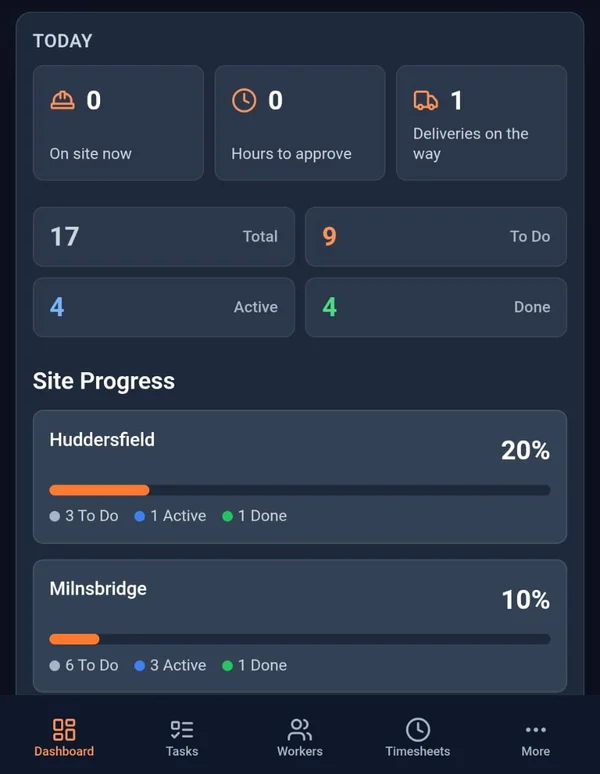
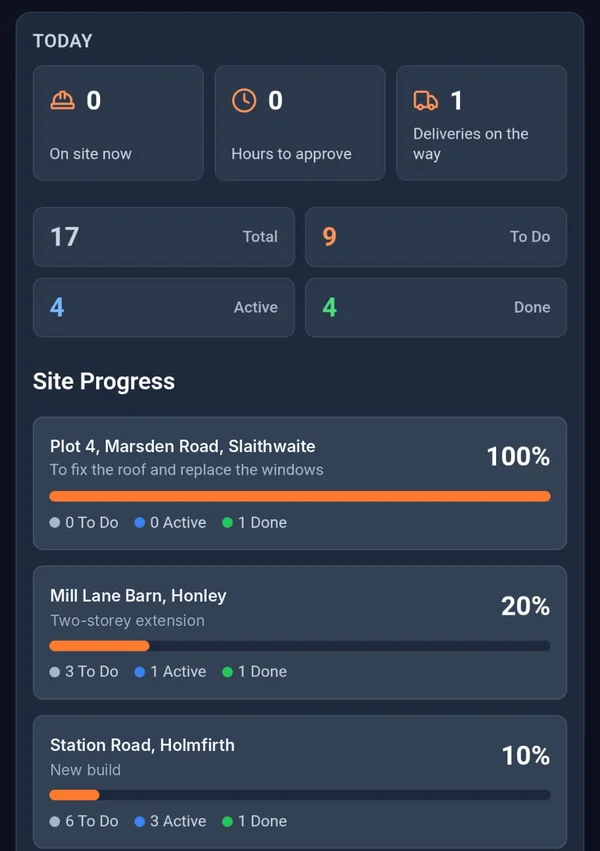
pricing and appearance & motion

diff --git a/public/assets/site.css b/public/assets/site.css
@@ -109,7 +109,7 @@
     pointer-events:none; z-index:0;
   }
   .hero .wrap{position:relative; z-index:1;}
-  .hero-grid{display:grid; grid-template-columns:1.1fr 0.9fr; gap:52px; align-items:center;}
+  .hero-grid{display:grid; grid-template-columns:1.1fr 0.9fr; gap:40px; align-items:center;}
   @media (max-width:900px){ .hero-grid{grid-template-columns:1fr; gap:40px;} }
   .hero h1{font-size:clamp(38px,6.2vw,70px); line-height:1.0; font-weight:800;}
   .hero h1 span{color:var(--accent);}
@@ -373,26 +373,42 @@ button.linklike{background:none; border:0; padding:0; font:inherit; cursor:point
 
 /* ---------- hero: real app screenshots ---------- */
 .shots{position:relative; padding-bottom:10px;}
-.shots .shot-desk{
-  margin:0; position:relative; z-index:1; width:100%;
-  background:var(--surface); border:1px solid var(--line-strong); border-radius:8px;
-  box-shadow:var(--shadow); overflow:hidden; transform:rotate(-1.2deg);
-}
-.shot-bar{display:flex; align-items:center; gap:6px; padding:8px 12px; background:var(--surface-2); border-bottom:1px solid var(--line);}
-.shot-url{margin-left:10px; font-family:'IBM Plex Mono', monospace; font-size:11px; color:var(--muted);}
-.shot-desk img{display:block; width:100%; height:auto;}
+/* Laptop: lid with thin bezel and camera, 16:10-ish display, then the keyboard deck. */
+.shots .shot-desk{margin:0 0 0 1%; position:relative; z-index:1; width:94%; filter:drop-shadow(0 30px 40px rgba(0,0,0,.45));}
+.laptop-lid{position:relative; background:#0a0d17; border:1px solid #2c3452; border-bottom:none; border-radius:14px 14px 0 0; padding:12px 12px 14px;}
+.laptop-cam{position:absolute; top:4px; left:50%; width:5px; height:5px; margin-left:-2.5px; border-radius:50%; background:#2a3150;}
+.laptop-display{background:#0d101f; border-radius:3px; overflow:hidden; aspect-ratio:16/10; display:flex; flex-direction:column;}
+.shot-bar{display:flex; align-items:center; gap:5px; padding:6px 10px; background:#1a2036; border-bottom:1px solid var(--line); flex:none;}
+.shot-bar .dot{width:7px; height:7px;}
+.shot-url{margin-left:8px; font-family:'IBM Plex Mono', monospace; font-size:10px; color:var(--muted); background:#0d101f; border-radius:4px; padding:2px 10px;}
+.laptop-apphead{display:flex; align-items:center; justify-content:space-between; padding:7px 12px; border-bottom:1px solid var(--line); flex:none;}
+.laptop-apphead img{height:12px; width:auto; display:block;}
+.laptop-apphead .phone-icons svg{width:12px; height:12px;}
+.laptop-shot{display:block; width:100%; height:auto; flex:1; object-fit:cover; object-position:top; min-height:0;}
+.laptop-base{position:relative; height:13px; margin:0 -7%; background:linear-gradient(#3a4263, #1c2236 60%, #121627); border-radius:0 0 12px 12px; border:1px solid #2c3452; border-top:1px solid #4a5378;}
+.laptop-base span{position:absolute; top:0; left:50%; width:16%; height:5px; margin-left:-8%; background:#141a2c; border-radius:0 0 6px 6px;}
 .shots .shot-phone{
-  position:relative; z-index:2; width:230px; margin:-70px 4% 0 auto;
-  background:#0d1120; border:8px solid #1b2138; border-radius:30px;
-  box-shadow:var(--shadow); overflow:hidden;
+  position:relative; z-index:2; width:182px; margin:-215px -3% 0 auto; border-width:6px; border-radius:30px;
+  background:#0d101f; border:7px solid #161b2e; border-radius:38px; overflow:hidden;
+  box-shadow:0 0 0 1.5px #2c3452, 0 30px 70px rgba(0,0,0,.55);
 }
-.shot-phone-top{padding:11px 14px 9px; border-bottom:1px solid var(--line); background:#0d1120;}
-.shot-phone-top img{display:block; height:17px; width:auto;}
-.shot-phone > img{display:block; width:100%; height:auto;}
+.phone-island{position:absolute; top:7px; left:50%; transform:translateX(-50%); width:72px; height:20px; border-radius:12px; background:#000; z-index:3;}
+.phone-status{display:flex; justify-content:space-between; align-items:center; height:32px; padding:4px 20px 0 22px; font:600 11px/1 'IBM Plex Sans', system-ui, sans-serif; color:#f5f3ec;}
+.phone-status-icons{display:flex; gap:3px; align-items:flex-end;}
+.phone-status-icons i{display:block; width:3px; background:#f5f3ec; border-radius:1px;}
+.phone-status-icons i:nth-child(1){height:5px;} .phone-status-icons i:nth-child(2){height:7px;} .phone-status-icons i:nth-child(3){height:9px;}
+.shot-phone-top{display:flex; align-items:center; justify-content:space-between; padding:10px 14px 11px; border-bottom:1px solid var(--line); background:#0d101f;}
+.shot-phone-top img{display:block; height:13px; width:auto;}
+.shot-phone-top .phone-icons{gap:9px;} .shot-phone-top .phone-icons svg{width:14px; height:14px;}
+.phone-icons{display:flex; gap:12px; color:#c3c9de;}
+.phone-icons svg{width:16px; height:16px;}
+.shot-phone .phone-screen, .shot-phone .phone-nav{display:block; width:100%; height:auto;}
+.phone-home{height:16px; background:#0d1120; display:flex; justify-content:center;}
+.phone-home::after{content:""; width:76px; height:4px; border-radius:2px; background:#f5f3ec; opacity:.8; margin-top:5px;}
 @media (max-width:900px){ .shots{max-width:600px; width:100%; margin:0 auto;} }
 @media (max-width:520px){
   .shots .shot-desk{display:none;}
-  .shots .shot-phone{margin:0 auto; width:min(270px, 80vw);}
+  .shots .shot-phone{margin:0 auto; width:min(250px, 72vw);}
 }
 
 /* ---------- nav: keep the top bar on one line ---------- */
@@ -443,21 +459,26 @@ button.linklike{background:none; border:0; padding:0; font:inherit; cursor:point
 .wl-price-plus small{font-weight:400; font-size:13.5px; color:var(--ink-soft);}
 
 .wl-visual{position:relative; display:flex; justify-content:center; padding:20px 0;}
-.wl-phone{width:270px; background:#0d1120; border:9px solid #1b2138; border-radius:34px; box-shadow:0 30px 80px rgba(0,0,0,.55), 0 0 0 1px rgba(255,122,46,.25); overflow:hidden; transform:rotate(2deg);}
-.wl-phone-top{display:flex; align-items:center; justify-content:space-between; padding:14px 16px; border-bottom:1px solid var(--line);}
+.wl-phone{position:relative; width:232px; background:#0d1120; border:7px solid #161b2e; border-radius:38px; box-shadow:0 0 0 1.5px #2c3452, 0 30px 80px rgba(0,0,0,.55); overflow:hidden; transform:rotate(2deg);}
+.wl-phone-top{display:flex; align-items:center; justify-content:space-between; padding:8px 14px 10px; border-bottom:1px solid var(--line);}
 .wl-logo-slot{font-family:'IBM Plex Mono', monospace; font-size:11px; font-weight:600; letter-spacing:.12em; color:var(--accent); border:1.5px dashed var(--accent); border-radius:6px; padding:6px 10px;}
 .wl-avatar{width:26px; height:26px; border-radius:50%; background:var(--surface-2); border:1px solid var(--line-strong);}
-.wl-phone-body{padding:14px; display:grid; gap:10px;}
-.wl-greet{font-family:'Big Shoulders Display', sans-serif; font-weight:800; font-size:24px;}
+.wl-phone-body{padding:12px; display:grid; gap:9px;}
+.wl-greet{font-family:'Big Shoulders Display', sans-serif; font-weight:800; font-size:22px;}
 .wl-stat-row{display:grid; grid-template-columns:repeat(3,1fr); gap:6px;}
 .wl-stat-row div{background:var(--surface); border:1px solid var(--line); border-radius:6px; padding:8px;}
 .wl-stat-row b{display:block; font-family:'IBM Plex Mono', monospace; font-size:16px; color:var(--accent);}
-.wl-stat-row span{font-size:10px; color:var(--muted);}
+.wl-stat-row span{font-size:9.5px; color:var(--muted); white-space:nowrap;}
 .wl-card-mini{background:var(--surface); border:1px solid var(--line); border-radius:8px; padding:10px; display:grid; gap:8px;}
 .wl-card-mini.exclusive{border-color:var(--accent); background:var(--accent-soft);}
 .wl-tag{justify-self:start; font-family:'IBM Plex Mono', monospace; font-size:9.5px; font-weight:600; letter-spacing:.1em; text-transform:uppercase; background:var(--accent); color:var(--accent-ink); border-radius:3px; padding:2px 6px;}
 .wl-line{height:7px; border-radius:4px; background:rgba(245,243,236,.35);}
-.wl-line.w70{width:70%;} .wl-line.w50{width:50%;} .wl-line.w60{width:60%;}
+.wl-line.w70{width:70%;} .wl-line.w50{width:50%;} .wl-line.w60{width:60%;} .wl-line.w40{width:40%;} .wl-line.dim{opacity:.5;}
+.wl-section-label{font-size:11px; font-weight:600; letter-spacing:.08em; text-transform:uppercase; color:var(--muted); margin-top:2px;}
+.wl-task{display:flex; align-items:center; gap:10px; background:var(--surface); border:1px solid var(--line); border-radius:8px; padding:9px 10px;}
+.wl-task .wl-line{flex:none;}
+.wl-check{width:14px; height:14px; border-radius:4px; border:1.5px solid var(--line-strong); flex:none;}
+.wl-check.on{background:var(--accent); border-color:var(--accent);}
 .wl-bar{height:6px; border-radius:3px; background:var(--surface-2); overflow:hidden;}
 .wl-bar i{display:block; height:100%; background:var(--accent);}
 .wl-phone-nav{display:flex; justify-content:space-around; padding:12px 10px 14px; border-top:1px solid var(--line);}
@@ -472,7 +493,7 @@ button.linklike{background:none; border:0; padding:0; font:inherit; cursor:point
 .wl-swatch.s2{background:#f5f3ec;} .wl-swatch.s3{background:#2b3452;}
 @keyframes wl-bob{0%,100%{transform:translateY(0)} 50%{transform:translateY(-8px)}}
 @media (prefers-reduced-motion: reduce){ .wl-float{animation:none;} }
-@media (max-width:520px){ .wl-float-a{left:0; top:50%;} .wl-float-b{right:0; bottom:6%;} .wl-phone{width:240px;} }
+@media (max-width:520px){ .wl-float-a{left:0; top:50%;} .wl-float-b{right:0; bottom:6%;} .wl-phone{width:220px;} }
 
 .wl-how{margin-top:64px;}
 .wl-how-title{font-family:'IBM Plex Mono', monospace; font-size:12px; font-weight:600; letter-spacing:.12em; text-transform:uppercase; color:var(--accent); margin-bottom:16px;}
@@ -499,3 +520,67 @@ button.linklike{background:none; border:0; padding:0; font:inherit; cursor:point
 .dmai-services svg{width:26px; height:26px; color:var(--accent);}
 .dmai-services b{font-size:16px; color:var(--ink);}
 .dmai-services span{font-size:14px; color:var(--ink-soft);}
+
+/* ---------- hero: live notifications + gentle float ---------- */
+/* Desktop: laptop turned slightly towards the text, phone tilted, both drifting gently out of step. */
+.shots{perspective:1600px;}
+.shots .shot-desk{transform-style:preserve-3d; animation:float-laptop 9s ease-in-out infinite;}
+.shots .shot-phone{animation:float-phone 7s ease-in-out infinite;}
+@keyframes float-laptop{
+  0%,100%{transform:rotateY(-16deg) rotateX(7deg) rotateZ(-1.5deg) translateY(0);}
+  50%{transform:rotateY(-12deg) rotateX(5deg) rotateZ(-1deg) translateY(-10px);}
+}
+@keyframes float-phone{
+  0%,100%{transform:rotate(-7deg) translateY(0);}
+  50%{transform:rotate(-4deg) translateY(-14px);}
+}
+.hero-toasts{position:absolute; left:2%; bottom:14%; width:250px; height:62px; z-index:4; pointer-events:none;}
+.toast{position:absolute; inset:0; display:flex; align-items:center; gap:11px; padding:10px 14px; background:rgba(23,28,48,.96); border:1px solid var(--line-strong); border-left:3px solid var(--accent); border-radius:10px; box-shadow:0 18px 40px rgba(0,0,0,.45); opacity:0; transform:translateY(14px) scale(.97); animation:toast-cycle 16s infinite;}
+.toast b{display:block; font-size:13.5px; font-weight:600; color:var(--ink); line-height:1.25;}
+.toast small{display:block; font-size:12px; color:var(--muted); margin-top:2px;}
+.toast-ic{flex:none; width:30px; height:30px; border-radius:8px; display:grid; place-items:center; background:var(--accent-soft); color:var(--accent);}
+.toast-ic.ok{background:rgba(52,199,89,.15); color:#3ccf6e;}
+.toast-ic svg{width:17px; height:17px;}
+.toast.t2{animation-delay:4s;} .toast.t3{animation-delay:8s;} .toast.t4{animation-delay:12s;}
+@keyframes toast-cycle{
+  0%{opacity:0; transform:translateY(14px) scale(.97);}
+  4%,22%{opacity:1; transform:translateY(0) scale(1);}
+  26%,100%{opacity:0; transform:translateY(-10px) scale(.98);}
+}
+.hero h1, .hero .lede, .hero .hero-ctas, .hero .reassure, .hero .eyebrow{animation:hero-in .8s cubic-bezier(.2,.7,.2,1) both;}
+.hero .eyebrow{animation-delay:.05s;} .hero h1{animation-delay:.12s;} .hero .lede{animation-delay:.24s;} .hero .hero-ctas{animation-delay:.34s;} .hero .reassure{animation-delay:.44s;}
+.shots{animation:hero-in 1s cubic-bezier(.2,.7,.2,1) .3s both;}
+@keyframes hero-in{from{opacity:0; transform:translateY(18px);} to{opacity:1; transform:none;}}
+@media (max-width:900px){ .hero-toasts{left:0; bottom:8%;} }
+@media (max-width:520px){ .hero-toasts{left:50%; margin-left:-125px; bottom:-26px;} .shots{padding-bottom:40px;} }
+
+/* ---------- scroll reveal ---------- */
+.js .reveal{opacity:0; transition:opacity .6s ease var(--d,0ms), transform .6s cubic-bezier(.2,.7,.2,1) var(--d,0ms);}
+.js .reveal-up{transform:translateY(14px);}
+.js .reveal-right{transform:translateX(40px);}
+.js .reveal-zoom{transform:scale(.97);}
+.js .reveal.in{opacity:1; transform:none;}
+.quote{transition:transform .25s, box-shadow .25s, border-color .25s;}
+.quote:hover{transform:translateY(-4px); box-shadow:var(--shadow);}
+.dmai-services li{transition:transform .2s, border-color .2s;}
+.dmai-services li:hover{transform:translateY(-3px); border-color:var(--accent);}
+
+@media (prefers-reduced-motion: reduce){
+  .shots .shot-phone, .shots .shot-desk, .hero h1, .hero .lede, .hero .hero-ctas, .hero .reassure, .hero .eyebrow, .shots{animation:none;}
+  .toast{animation:none;} .toast.t1{opacity:1; transform:none;}
+  .js .reveal{opacity:1; transform:none; transition:none;}
+}
+
+/* ---------- hero on phones and tablets: just the phone, tilted and floating ---------- */
+@media (max-width:900px){
+  .shots{padding:10px 0 50px;}
+  .shots .shot-desk{display:none;}
+  .shots .shot-phone{margin:0 auto; width:min(220px, 60vw); border-width:7px; border-radius:34px; animation:float-tilt 6s ease-in-out infinite;}
+  .shot-phone-top img{height:15px;}
+  .hero-toasts{left:50%; margin-left:-125px; bottom:-14px;}
+}
+@keyframes float-tilt{
+  0%,100%{transform:rotate(-5deg) translateY(0);}
+  50%{transform:rotate(-3deg) translateY(-12px);}
+}
+@media (prefers-reduced-motion: reduce){ .shots .shot-phone{transform:rotate(-5deg);} .shots .shot-desk{transform:rotateY(-14deg) rotateX(6deg) rotateZ(-1deg);} }

diff --git a/public/assets/site.js b/public/assets/site.js
@@ -8,3 +8,34 @@
   });
   menu.addEventListener('click',function(e){ if(e.target.tagName==='A'){ menu.classList.remove('open'); btn.setAttribute('aria-expanded','false'); } });
 })();
+
+// A few key moments animate as they scroll into view; everything else stays still.
+(function(){
+  var root=document.documentElement;
+  if(!('IntersectionObserver' in window) || window.matchMedia('(prefers-reduced-motion: reduce)').matches){ root.classList.remove('js'); return; }
+  // [selector, style, stagger children?]
+  var moments=[
+    ['.feat-grid','up',true],          // features: cards arrive one after another
+    ['.price-grid','up',true],         // pricing: plans arrive in turn
+    ['.wl-visual','right',false],      // white label: phone slides in
+    ['.dmai-card','zoom',false],       // DM.AI 4U: box settles into place
+    ['.team-grid','up',true],          // meet the team
+    ['.post-featured','up',false]      // blog: featured post
+  ];
+  var items=[];
+  moments.forEach(function(m){
+    document.querySelectorAll(m[0]).forEach(function(el){
+      var targets=m[2]?Array.prototype.slice.call(el.children):[el];
+      targets.forEach(function(t,i){ t.classList.add('reveal','reveal-'+m[1]); if(m[2]) t.style.setProperty('--d',(i*110)+'ms'); items.push(t); });
+    });
+  });
+  var io=new IntersectionObserver(function(entries){
+    entries.forEach(function(e){
+      if(!e.isIntersecting) return;
+      var t=e.target; t.classList.add('in'); io.unobserve(t);
+      // Tidy up afterwards so hover effects work as normal.
+      setTimeout(function(){ t.classList.remove('reveal','reveal-up','reveal-right','reveal-zoom','in'); t.style.removeProperty('--d'); }, 1400);
+    });
+  },{rootMargin:'0px 0px -12% 0px', threshold:0.15});
+  items.forEach(function(el){ io.observe(el); });
+})();
